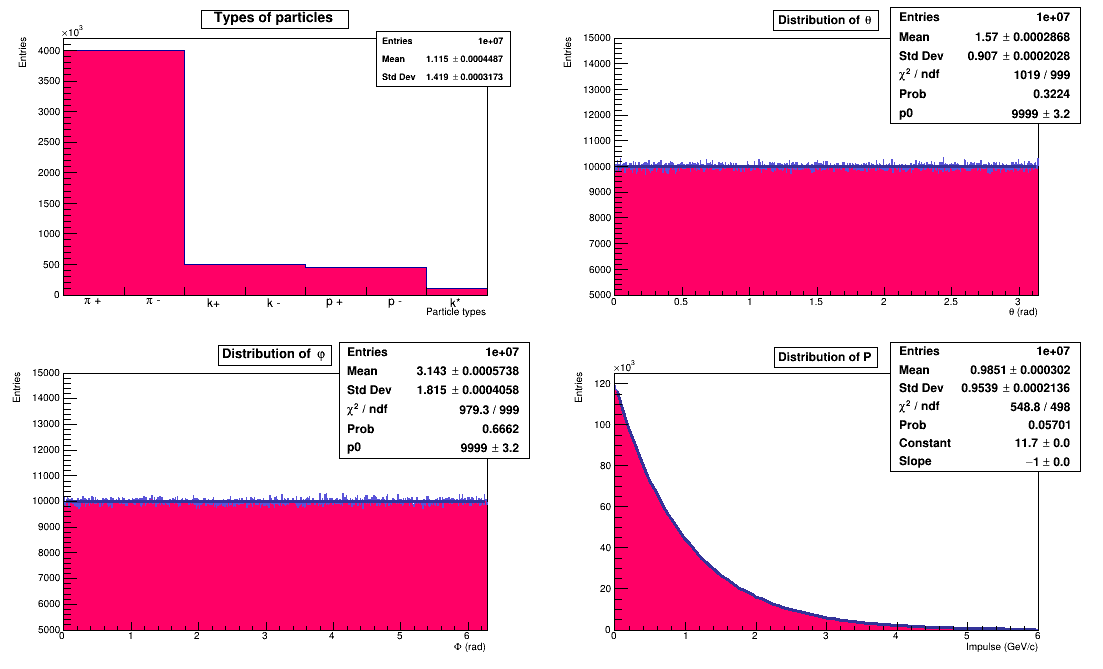
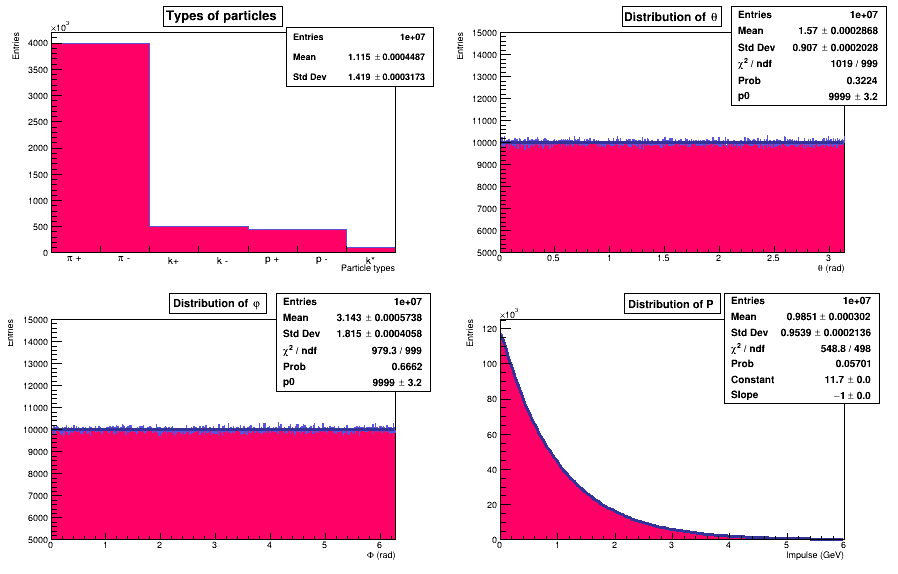
avevo sbagliato le unità di misura

diff --git a/analysis.cpp b/analysis.cpp
@@ -116,11 +116,11 @@ void analysis(){
     h[0]->GetXaxis()->SetTitle("Particle types");
     h[1]->GetXaxis()->SetTitle("#theta (rad)");
     h[2]->GetXaxis()->SetTitle("#Phi (rad)");
-    h[3]->GetXaxis()->SetTitle("Impulse (GeV/c)");
-    h[4]->GetXaxis()->SetTitle("Transverse impulse (GeV/c)");
+    h[3]->GetXaxis()->SetTitle("Impulse (GeV)");
+    h[4]->GetXaxis()->SetTitle("Transverse impulse (GeV)");
     h[5]->GetXaxis()->SetTitle("Energy (GeV)");
     for(int i = 6; i != 12; ++i){
-        h[i]->GetXaxis()->SetTitle("Invariant mass (GeV/c^{2})");
+        h[i]->GetXaxis()->SetTitle("Invariant mass (GeV)");
     }
     h[1]->SetMinimum(5000);
     h[2]->SetMinimum(5000);
@@ -128,9 +128,9 @@ void analysis(){
     h[2]->SetMaximum(15000);
     hdif1->SetFillColor(kPink-3);
     hdif2->SetFillColor(kPink-3);
-    hdif1->GetXaxis()->SetTitle("Invariant mass (GeV/c^{2})");
+    hdif1->GetXaxis()->SetTitle("Invariant mass (GeV)");
     hdif1->GetYaxis()->SetTitle("Entries");
-    hdif2->GetXaxis()->SetTitle("Invariant mass (GeV/c^{2})");
+    hdif2->GetXaxis()->SetTitle("Invariant mass (GeV)");
     hdif2->GetYaxis()->SetTitle("Entries");
     //drawing
     TCanvas* c1 = new TCanvas("c1","Distribution of particles, angles, impulse",900,600);
